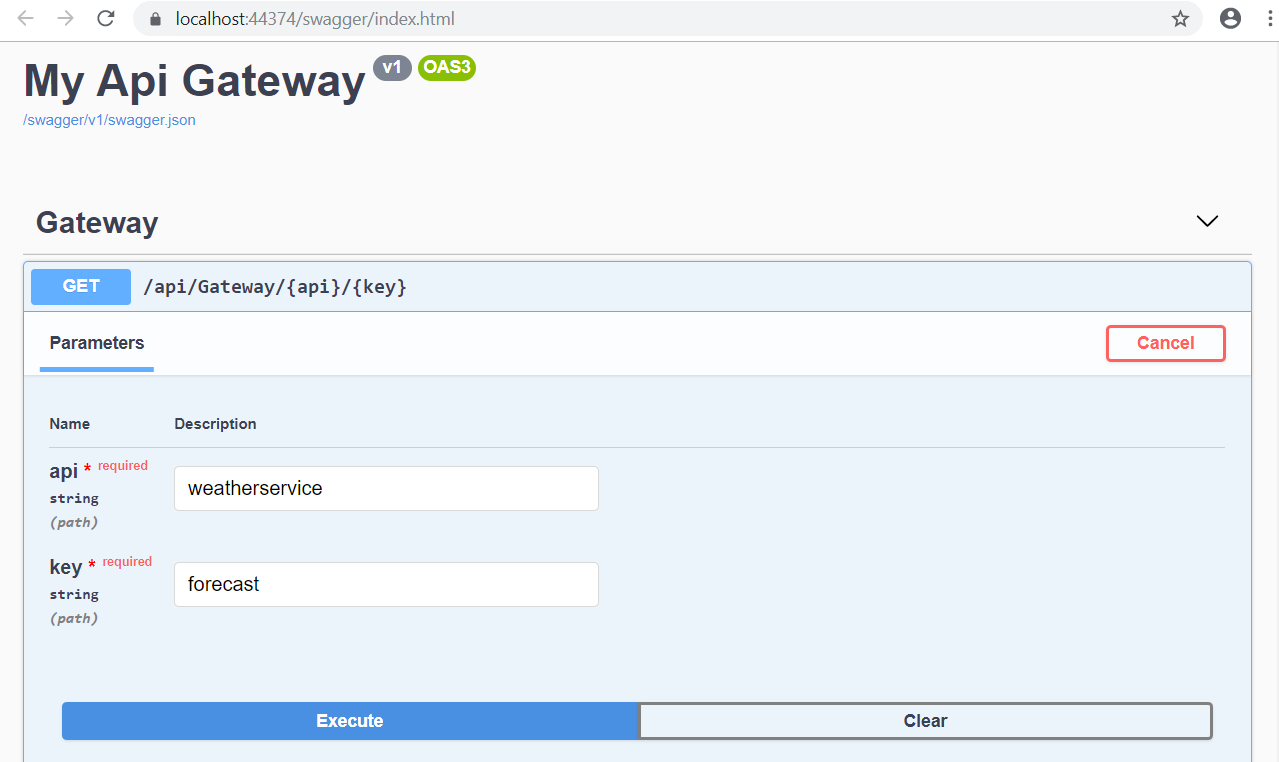
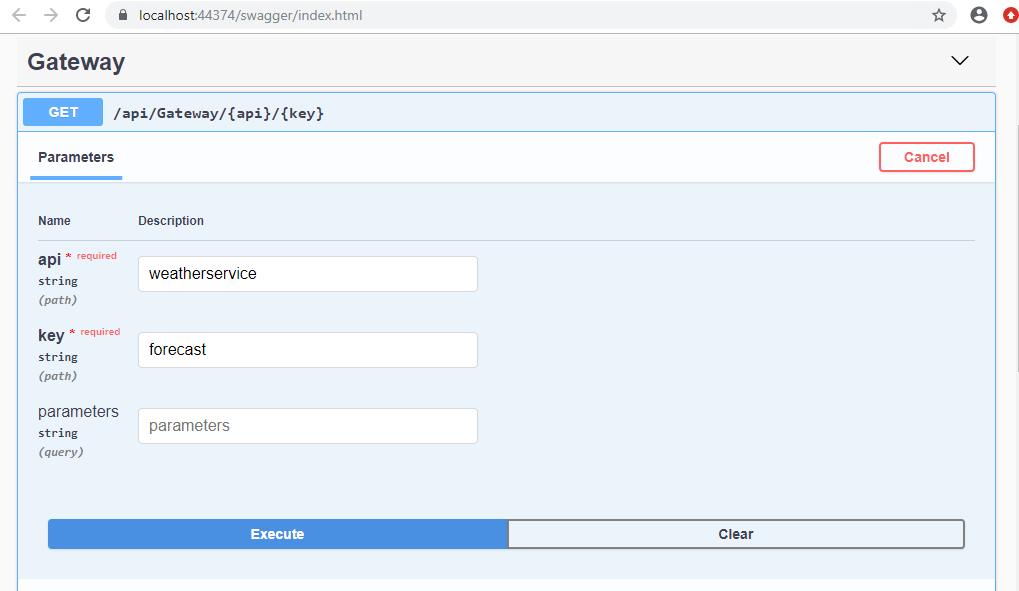
merged the get call

diff --git a/AspNetCore.ApiGateway/Controllers/GatewayController.cs b/AspNetCore.ApiGateway/Controllers/GatewayController.cs
@@ -25,20 +25,11 @@ namespace AspNetCore.ApiGateway.Controllers
 
         [HttpGet]
         [Route("{api}/{key}")]
-        [ServiceFilter(typeof(GatewayGetAuthorizeAttribute))]
-        public async Task<IActionResult> GetNoParams(string api, string key)
-        {
-            _logger.LogInformation($"ApiGateway: Incoming GET request. api: {api}, key: {key}");
-
-            return await this.Get(api, key);            
-        }
-
-        [HttpGet]
-        [Route("{api}/{key}/{parameters}")]
         [ServiceFilter(typeof(GatewayGetWithParamsAuthorizeAttribute))]
-        public async Task<IActionResult> GetParams(string api, string key, string parameters)
+        public async Task<IActionResult> GetParams(string api, string key, string parameters = null)
         {
-            parameters = HttpUtility.UrlDecode(parameters);
+            if (parameters != null)
+                parameters = HttpUtility.UrlDecode(parameters);
 
             _logger.LogInformation($"ApiGateway: Incoming GET request. api: {api}, key: {key}, parameters: {parameters}");
 

diff --git a/README_VERBS.md b/README_VERBS.md
@@ -1,6 +1,6 @@
-### GET with parameters
+### GET
 
-![API Gateway Swagger](https://github.com/VeritasSoftware/AspNetCore.ApiGateway/blob/master/GETWithParams.PNG)
+![API Gateway Swagger](https://github.com/VeritasSoftware/AspNetCore.ApiGateway/blob/master/ApiGatewayCall.PNG)
 
 ### POST
 
